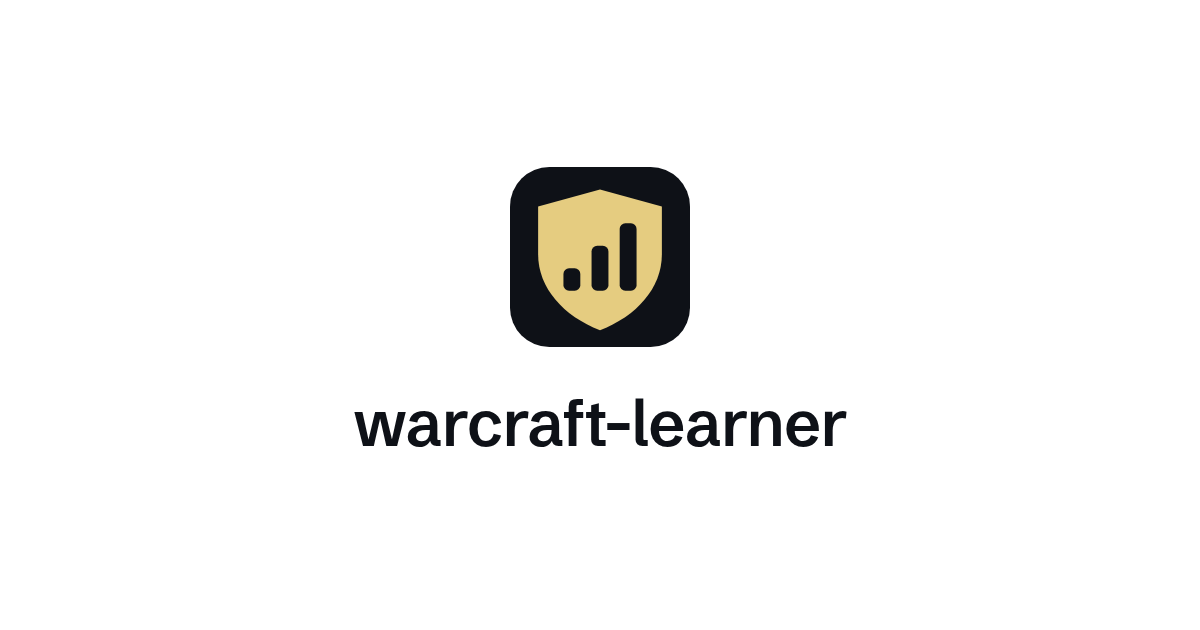
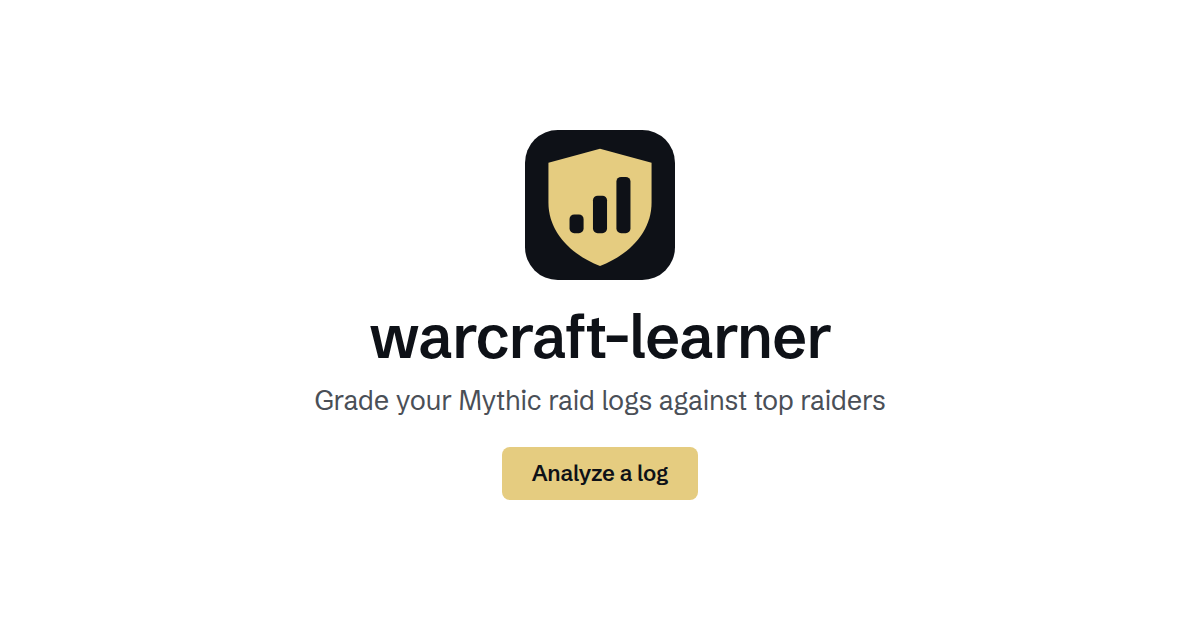
Deploy the shell on every merge and tune the share metadata (#372)
## The deploy race

Merging #371 put the Open Graph tags on `main` but never on the site.
The cause is not the metadata, it is `deploy-pages`.

A merge fires two events at the same instant: `push` (owns `main/` and
the root `index.html`) and `pull_request: closed` (owns the `pr-*`
previews). Both queue on the shared `gh-pages` concurrency group, and
GitHub keeps only one pending run per group, so a third arrival cancels
the pending one. On the #371 merge the superseded PR run was still in
progress, and the `push` run was the one cancelled. The surviving
`pull_request: closed` run has `BUILD_SHELL=false`, so it rebuilt
previews and left `main/` untouched. Nothing failed, so nothing
surfaced.

This was not a one-off: the `push main` run also lost the slot on the
2026-08-14 10:53 merge and won on the 18:20 one. Every merge was a coin
flip on whether prod deployed.

### Fix

Collapse a merge down to a single gh-pages writer.

- Every run that builds now also rebuilds the `pr-*` previews, so
`BUILD_PREVIEWS` is constant and is gone. The `push` run is a full
resync, and because the merged PR is already closed when it lists open
PRs, that PR's preview is still reaped.
- The merged close therefore has no gh-pages work left, so `build` skips
it (`if: github.event.action != 'closed' ||
github.event.pull_request.merged == false`), taking `publish` with it.
An unmerged close still runs, since only that event can reap an
abandoned PR's preview.
[…]

Changed region(s): [[0.3083, 0.181, 0.7092, 0.573], [0.2467, 0.6032, 0.74, 0.8143]]

diff --git a/.github/pages-root/index.html b/.github/pages-root/index.html
@@ -2,7 +2,7 @@
 <html lang="en">
   <head>
     <meta charset="utf-8" />
-    <title>warcraft-learner</title>
+    <title>warcraft-learner - Mythic raid log analysis for WoW raiders</title>
     <meta
       name="description"
       content="Diagnostic tool for Mythic raiders. warcraft-learner grades your Warcraft Logs parses against spec-specific rulebooks and benchmarks them against top parses."
@@ -16,7 +16,7 @@
     <meta property="og:title" content="warcraft-learner - Mythic raid log analysis" />
     <meta
       property="og:description"
-      content="Diagnostic tool for Mythic raiders. warcraft-learner grades your Warcraft Logs parses against spec-specific rulebooks and benchmarks them against top parses."
+      content="Grade your Mythic Warcraft Logs parses against spec-specific rulebooks and benchmark them against top raiders."
     />
     <meta property="og:image" content="https://warcraft-learner.com/main/og-image.png" />
     <meta property="og:image:width" content="1200" />
@@ -27,7 +27,7 @@
     <meta name="twitter:title" content="warcraft-learner - Mythic raid log analysis" />
     <meta
       name="twitter:description"
-      content="Diagnostic tool for Mythic raiders. warcraft-learner grades your Warcraft Logs parses against spec-specific rulebooks and benchmarks them against top parses."
+      content="Grade your Mythic Warcraft Logs parses against spec-specific rulebooks and benchmark them against top raiders."
     />
     <meta name="twitter:image" content="https://warcraft-learner.com/main/og-image.png" />
     <meta name="twitter:image:alt" content="warcraft-learner logo, a gold shield with an ascending bar chart" />

diff --git a/frontend/src/index.html b/frontend/src/index.html
@@ -2,7 +2,7 @@
 <html lang="en">
   <head>
     <meta charset="utf-8" />
-    <title>warcraft-learner</title>
+    <title>warcraft-learner - Mythic raid log analysis for WoW raiders</title>
     <base href="/" />
     <meta name="viewport" content="width=device-width, initial-scale=1" />
     <meta
@@ -18,7 +18,7 @@
     <meta property="og:title" content="warcraft-learner - Mythic raid log analysis" />
     <meta
       property="og:description"
-      content="Diagnostic tool for Mythic raiders. warcraft-learner grades your Warcraft Logs parses against spec-specific rulebooks and benchmarks them against top parses."
+      content="Grade your Mythic Warcraft Logs parses against spec-specific rulebooks and benchmark them against top raiders."
     />
     <meta property="og:image" content="https://warcraft-learner.com/main/og-image.png" />
     <meta property="og:image:width" content="1200" />
@@ -29,7 +29,7 @@
     <meta name="twitter:title" content="warcraft-learner - Mythic raid log analysis" />
     <meta
       name="twitter:description"
-      content="Diagnostic tool for Mythic raiders. warcraft-learner grades your Warcraft Logs parses against spec-specific rulebooks and benchmarks them against top parses."
+      content="Grade your Mythic Warcraft Logs parses against spec-specific rulebooks and benchmark them against top raiders."
     />
     <meta name="twitter:image" content="https://warcraft-learner.com/main/og-image.png" />
     <meta name="twitter:image:alt" content="warcraft-learner logo, a gold shield with an ascending bar chart" />

diff --git a/.claude/skills/warcraft-writing/SKILL.md b/.claude/skills/warcraft-writing/SKILL.md
@@ -12,7 +12,7 @@ description: warcraft-learner user-facing writing and branding rules. Covers the
 - **The product name is always `warcraft-learner`** - lowercase, hyphenated, exactly that casing. Never "Warcraft Learner", "WarcraftLearner", or any other variant. This applies to the page `<title>`, nav wordmark, CLI banners, READMEs, and any new user-facing copy.
 - **Do not confuse it with "Warcraft Logs"** (a.k.a. WCL) - that is the external data provider, a separate product. Leave "Warcraft Logs" / "WCL" strings as-is; only our own app name is normalized to `warcraft-learner`.
 - **Logo / favicon** - gold shield with an ascending bar chart. Single source of truth: `frontend/public/favicon.svg`, which drives the `.ico` (regenerated at 16/32/48px via `sharp` + `png-to-ico`, never hand-edited) and the nav-bar mark. `index.html` references the SVG first (`type="image/svg+xml"`) with the `.ico` as legacy fallback. The nav-bar logo (`shared/components/page-nav`) is the same artwork inlined as SVG so it themes with CSS vars - set its fills via Tailwind classes (`fill-[var(--gold)]` / `fill-[var(--surface)]`), **not** `fill="var(--…)"` attributes (browsers don't reliably honor them). Brand gold `--gold` (`#e5cc80`) is the WCL 100-parse "Astounding" gold; the favicon's literal hex must track the `styles.scss` tokens.
-- **Share card** - `frontend/public/og-image.png` (1200x630): the shield over the wordmark, a favicon derivative to regenerate with the logo. Backs `og:image` in `frontend/src/index.html` and `.github/pages-root/index.html`, which carry identical tags.
+- **Share card** - `frontend/public/og-image.png` (1200x630): the shield over the wordmark, a tagline, and one gold call to action, a favicon derivative to regenerate with the logo. Backs `og:image` in `frontend/src/index.html` and `.github/pages-root/index.html`, which carry identical tags. The GitHub repo card is the same artwork at 1280x640, uploaded in repo settings rather than tracked here.
 
 ## UI copy voice (plain-spoken coach)
 
